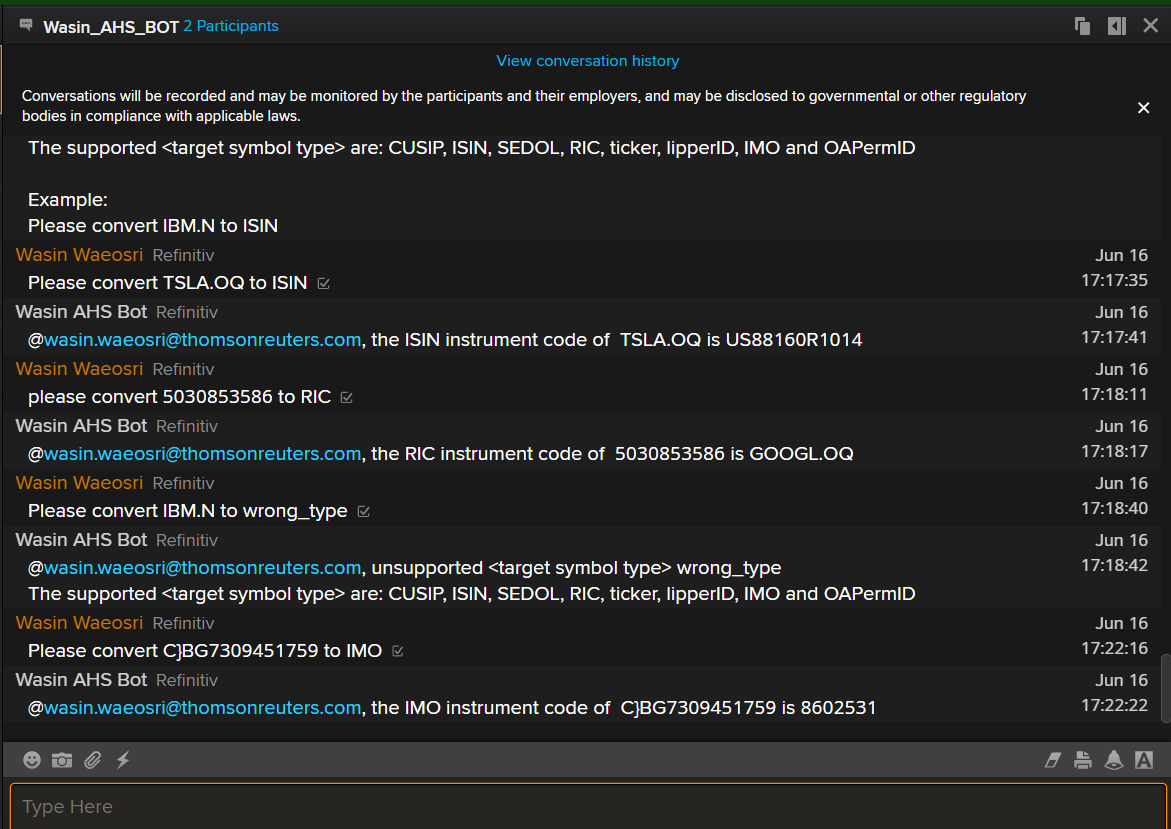
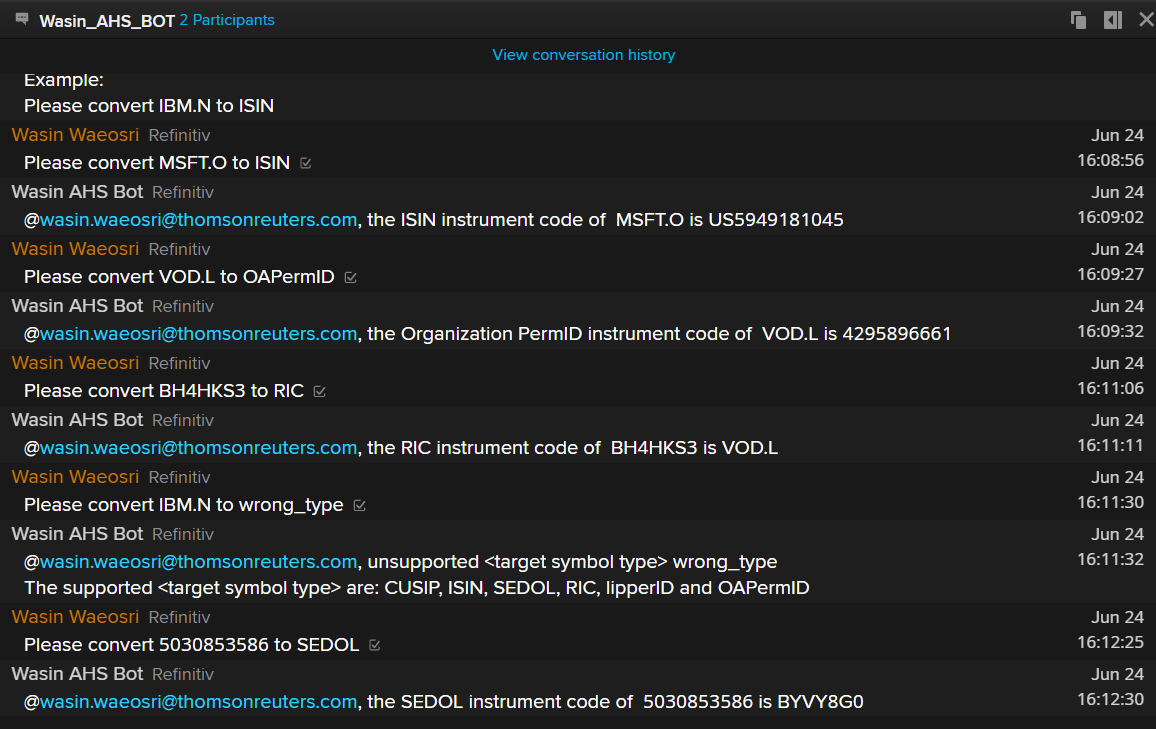
change logs: 1. Update README and Development Detail 2. Remove IMO and ticker conversion features

Changed region(s): [[0.0, 0.0604, 1.0, 1.0], [0.0, 0.0, 1.0, 0.0604], [0.9343, 0.1811, 0.9965, 0.6941]]

diff --git a/src/chatbot_demo_symbology.py b/src/chatbot_demo_symbology.py
@@ -67,7 +67,7 @@ symbology_request_pattern = r'Please convert (?P<symbol>.*) to (?P<target_symbol
 response_template = Template('@$sender, the $target_symbol_type instrument code of  $symbol is $converted_symbol')
 response_error_template = Template('@$sender, the $target_symbol_type instrument code of $symbol is not available')
 response_unsupported_type_template = Template('@$sender, unsupported <target symbol type> $target_symbol_type\n'
-    'The supported <target symbol type> are: CUSIP, ISIN, SEDOL, RIC, ticker, lipperID, IMO and OAPermID\n')
+    'The supported <target symbol type> are: CUSIP, ISIN, SEDOL, RIC, lipperID and OAPermID\n')
 
 response_unsupported_command = Template('@$sender, unsupported command. Please use the following command to convert instrument code\n'
     '"Please convert <symbol> to <target symbol type>"\n'
@@ -78,13 +78,12 @@ response_unsupported_command = Template('@$sender, unsupported command. Please u
                             
 # Dictionary to map between input <target symbol type> and Refinitiv Workspace instrument type fields
 symbol_dict = {'RIC':'TR.RIC','ISIN':'TR.ISIN','SEDOL':'TR.SEDOL',
-    'CUSIP':'TR.CUSIP','ticker':'TR.TickerSymbol','lipperID':'TR.LipperRICCode',
-    'IMO':'TR.AssetIMO','OAPermID':'TR.OrganizationID'}
+    'CUSIP':'TR.CUSIP','lipperID':'TR.LipperRICCode','OAPermID':'TR.OrganizationID'}
 
 # Help/Instruction Message
 help_message = ('You can ask me to convert instrument code with this command\n'
     '"Please convert <symbol> to <target symbol type>"\n'
-    'The supported <target symbol type> are: CUSIP, ISIN, SEDOL, RIC, ticker, lipperID, IMO and OAPermID\n'
+    'The supported <target symbol type> are: CUSIP, ISIN, SEDOL, RIC, lipperID and OAPermID\n'
     '\n'
     'Example:\n'
     'Please convert IBM.N to ISIN')

diff --git a/src/dapi_session.py b/src/dapi_session.py
@@ -29,9 +29,7 @@ class DAPISessionManagement:
         - TR.ISIN
         - TR.SEDOL
         - TR.CUSIP
-        - TR.TickerSymbol
         - TR.LipperRICCode
-        - TR.AssetIMO 
         - TR.OrganizationID
     '''
     def convert_symbology(self, symbol, target_symbol_type = 'TR.ISIN'):

diff --git a/Development_Detail.md b/Development_Detail.md
@@ -40,9 +40,9 @@ This demo project requires the following dependencies.
 
 ## <a id="chatbot-workflow"></a>Messenger Bot API Application Workflow
 
-The Messenger Bot API application workflow combines the usage or RDP APIs with the HTTP REST API with the Bot REST and WebSocket APIs. The application gets access credential from the RDP Auth Service, than joins the chat room and connects to the Messenger Bot API WebSocket server. The application receives messages in the chat room via the WebSocket connection, then sends message back the chat room with the HTTP REST API. The application needs to keep renew access credential on both Authentication service and the WebSocket connection before that token is expired. Please see a full detail below:
+The Messenger Bot API application workflow combines the usage of RDP APIs HTTP REST API with the Bot REST and WebSocket APIs. The application gets access credential from the RDP Auth Service, than joins the chat room and connects to the Messenger Bot API WebSocket server. The application receives messages in the chat room via the WebSocket connection, then sends message back the chat room with the HTTP REST API. The application needs to keep renew access credential on both Authentication service and the WebSocket connection before that token is expired. Please see a full detail below:
 
-1. Connect to Refinitiv Data Platform API (RDP API) and obtain access token, refresh token and session expiration interval for your application ID/username.
+1. Authenticate with Refinitiv Data Platform API (RDP API) and obtain access token, refresh token and session expiration interval for your bot.
 2. Get the list of chat rooms from Messenger Bot API via HTTP REST.
 2. Join the selected chat room via HTTP REST API call. 
 4. Connect to Messenger Bot API WebSocket server.
@@ -77,7 +77,7 @@ An error is returned if this limit is exceeded.
 
 ## <a id="dapi-integration"></a>Eikon Data API integration
 
-The *chatbot_demo_symbology.py* application file utilizes  ```DAPISessionManagement``` class of *dapi_session.py* Python module file to manage all Eikon Data API operations. The DAPISessionManagement class receives the Eikon Data API App Key from the application, then it imports the library and set the App Key of the application. The application is now ready to send data retrieval requests.
+The *chatbot_demo_symbology.py* application file utilizes  ```DAPISessionManagement``` class of *dapi_session.py* Python module file to manage all Eikon Data API operations. The DAPISessionManagement class receives the Eikon Data API App Key from the application, then it imports the library and set the App Key of the application. The application is now ready to send data retrieval requests to Refinitiv.
 
 ```
 # dapi_session.py file
@@ -98,7 +98,7 @@ class DAPISessionManagement:
 
 ```
 
-The DAPISessionManagement class also let the chat bot application check if it success initiate session with Refinitiv Workspace/Eikon Desktop application or not via the ```verify_desktop_connection()``` function. This function uses Eikon Data API ```get_port_number()``` which returns the port number used to communicate with the Eikon Data API Proxy. If the connection success, it always returns a default port "9000".
+The DAPISessionManagement class also lets the chat bot application checks if it success initiate session with Refinitiv Workspace/Eikon Desktop application or not via the ```verify_desktop_connection()``` function. This function uses Eikon Data API ```get_port_number()``` which returns the port number used to communicate with the Eikon Data API Proxy. If the connection success, it always returns a default port "9000".
 
 ```
 # dapi_session.py file
@@ -123,6 +123,14 @@ Lastly, the DAPISessionManagement class uses Eikon Data API ```get_data()``` fun
 
 Please note that you can choose Eikon Data API ```get_symbology()``` function which returns instrument names converted into another instrument code instead in your own implementation. This demo application choose ```get_data()``` function because user does not require to input *an instrument code to convert from* parameter like the ```get_symbology()``` function.
 
+This demo application supports the following instrument codes conversion:
+- RIC (```TR.RIC```)
+- ISIN (```TR.ISIN```)
+- SEDOL (```TR.SEDOL```)
+- CUSIP (```TR.CUSIP```)
+- lipperID (```TR.LipperRICCode```)
+- OAPermID (```TR.OrganizationID```)
+
 ```
 # dapi_session.py file
 
@@ -136,9 +144,7 @@ class DAPISessionManagement:
         - TR.ISIN
         - TR.SEDOL
         - TR.CUSIP
-        - TR.TickerSymbol
         - TR.LipperRICCode
-        - TR.AssetIMO 
         - TR.OrganizationID
     '''
     def convert_symbology(self, symbol, target_symbol_type = 'TR.ISIN'):
@@ -203,7 +209,7 @@ symbology_request_pattern = r'Please convert (?P<symbol>.*) to (?P<target_symbol
 response_template = Template('@$sender, the $target_symbol_type instrument code of  $symbol is $converted_symbol')
 response_error_template = Template('@$sender, the $target_symbol_type instrument code of $symbol is not available')
 response_unsupported_type_template = Template('@$sender, unsupported <target symbol type> $target_symbol_type\n'
-    'The supported <target symbol type> are: CUSIP, ISIN, SEDOL, RIC, ticker, lipperID, IMO and OAPermID\n')
+    'The supported <target symbol type> are: CUSIP, ISIN, SEDOL, RIC, lipperID and OAPermID\n')
 
 response_unsupported_command = Template('@$sender, unsupported command. Please use the following command to convert instrument code\n'
     '"Please convert <symbol> to <target symbol type>"\n'
@@ -214,13 +220,12 @@ response_unsupported_command = Template('@$sender, unsupported command. Please u
                             
 # Dictionary to map between input <target symbol type> and Refinitiv Workspace instrument type fields
 symbol_dict = {'RIC':'TR.RIC','ISIN':'TR.ISIN','SEDOL':'TR.SEDOL',
-    'CUSIP':'TR.CUSIP','ticker':'TR.TickerSymbol','lipperID':'TR.LipperRICCode',
-    'IMO':'TR.AssetIMO','OAPermID':'TR.OrganizationID'}
+    'CUSIP':'TR.CUSIP','lipperID':'TR.LipperRICCode','OAPermID':'TR.OrganizationID'}
 
 # Help/Instruction Message
 help_message = ('You can ask me to convert instrument code with this command\n'
     '"Please convert <symbol> to <target symbol type>"\n'
-    'The supported <target symbol type> are: CUSIP, ISIN, SEDOL, RIC, ticker, lipperID, IMO and OAPermID\n'
+    'The supported <target symbol type> are: CUSIP, ISIN, SEDOL, RIC, lipperID and OAPermID\n'
     '\n'
     'Example:\n'
     'Please convert IBM.N to ISIN')
@@ -237,7 +242,7 @@ Hi, I am a chatbot symbology converter.
 
 You can ask me to convert instrument code with this command
 "Please convert <symbol> to <target symbol type>"
-The supported <target symbol type> are: CUSIP, ISIN, SEDOL, RIC, ticker, lipperID, IMO and OAPermID
+The supported <target symbol type> are: CUSIP, ISIN, SEDOL, RIC, lipperID and OAPermID
 
 Example:
 Please convert IBM.N to ISIN

diff --git a/README.md b/README.md
@@ -26,11 +26,19 @@ The [Eikon Data API](https://developers.refinitiv.com/eikon-apis/eikon-data-api)
 
 ## <a id="overview"></a>Symbology Conversion Chat Bot Demo overview
 
-This demo application shows how to integrates [Messenger Bot API](https://developers.refinitiv.com/messenger-api) with [Eikon Data API](https://developers.refinitiv.com/eikon-apis/eikon-data-api) to be a basic [Python](https://www.python.org/) chat bot application. The symbology chat bot receives a symbology conversion  request from users in the chatroom, then uses Eikon Data API to covert the requested symbol and lets the Bot API response to user. 
+This demo application shows how to integrates [Messenger Bot API](https://developers.refinitiv.com/messenger-api) with [Eikon Data API](https://developers.refinitiv.com/eikon-apis/eikon-data-api) to be a basic [Python](https://www.python.org/) chat bot application. The symbology chat bot receives a symbology conversion  request from users in the chatroom, then uses Eikon Data API coverts the requested symbol and lets the Bot API response to user. 
 
 ![Figure-1](images/chat_bot_symbology_result.png "Chatbot Symbology") 
 
-*Note*: The Messenger Bot API uses Refinitiv Data Platform APIs (RDP APIs) for authentication process. The APIs provide simple web based API access to a broad range of content for developers. Please refer to [RDP APIs page](https://developers.refinitiv.com/refinitiv-data-platform/refinitiv-data-platform-apis) for more detail.
+This demo application supports the following instrument codes conversion:
+- RIC 
+- ISIN 
+- SEDOL 
+- CUSIP 
+- lipperID 
+- OAPermID
+
+*Note*: The Messenger Bot API uses Refinitiv Data Platform APIs (RDP APIs) for authentication process. The APIs provide simple web based API access to a broad range of content for developers. Please refer to [RDP APIs page](https://developers.refinitiv.com/refinitiv-data-platform/refinitiv-data-platform-apis)  for more detail.
 
 ## <a id="usage-limit"></a>Eikon Data API Usage and Limits Guideline
 
@@ -67,7 +75,7 @@ You can generate your AppKey via the following steps:
 
 You will then see a row for your new app with an AppKey item, which is your client_id for the Refinitiv Data Platform (RDP) and Eikon Data API Authentication. 
 
-*Note*: You can create different App Key (client_id) for 'EDP API' and 'Eikon Data API' by just creating two application for each API type.
+*Note*: You can create a different App Key (client_id) for 'EDP API' and 'Eikon Data API' by just creating two applications for each API type.
 
 ## <a id="setting"></a>Setting the Messenger application
 
@@ -130,7 +138,7 @@ The first step is unzip or download the example project folder into a directory 
 6. Then demo application continues authentication process, get an associate chatroom, then join that chatroom. The bot will send a greeting message with the symbology command instruction.
     
     ![Figure-1](images/chat_bot_greeting.png "Chatbot greeting and help message") 
-7. You can ask the chatbot to convert instrument code type for you with ```Please convert <symbol> to <target_symbol_type>``` command. The supported ```<target_symbol_type>``` are CUSIP, ISIN, SEDOL, RIC, ticker, lipperID, IMO and OAPermID
+7. You can ask the chatbot to convert instrument code type for you with ```Please convert <symbol> to <target_symbol_type>``` command. The supported ```<target_symbol_type>``` are CUSIP, ISIN, SEDOL, RIC, lipperID and OAPermID
     
     ![Figure-2](images/chat_bot_interaction.png "Basic interaction") 
 8. If you forget the command, you can send ```/help``` message in to a Chatroom to see an example.
